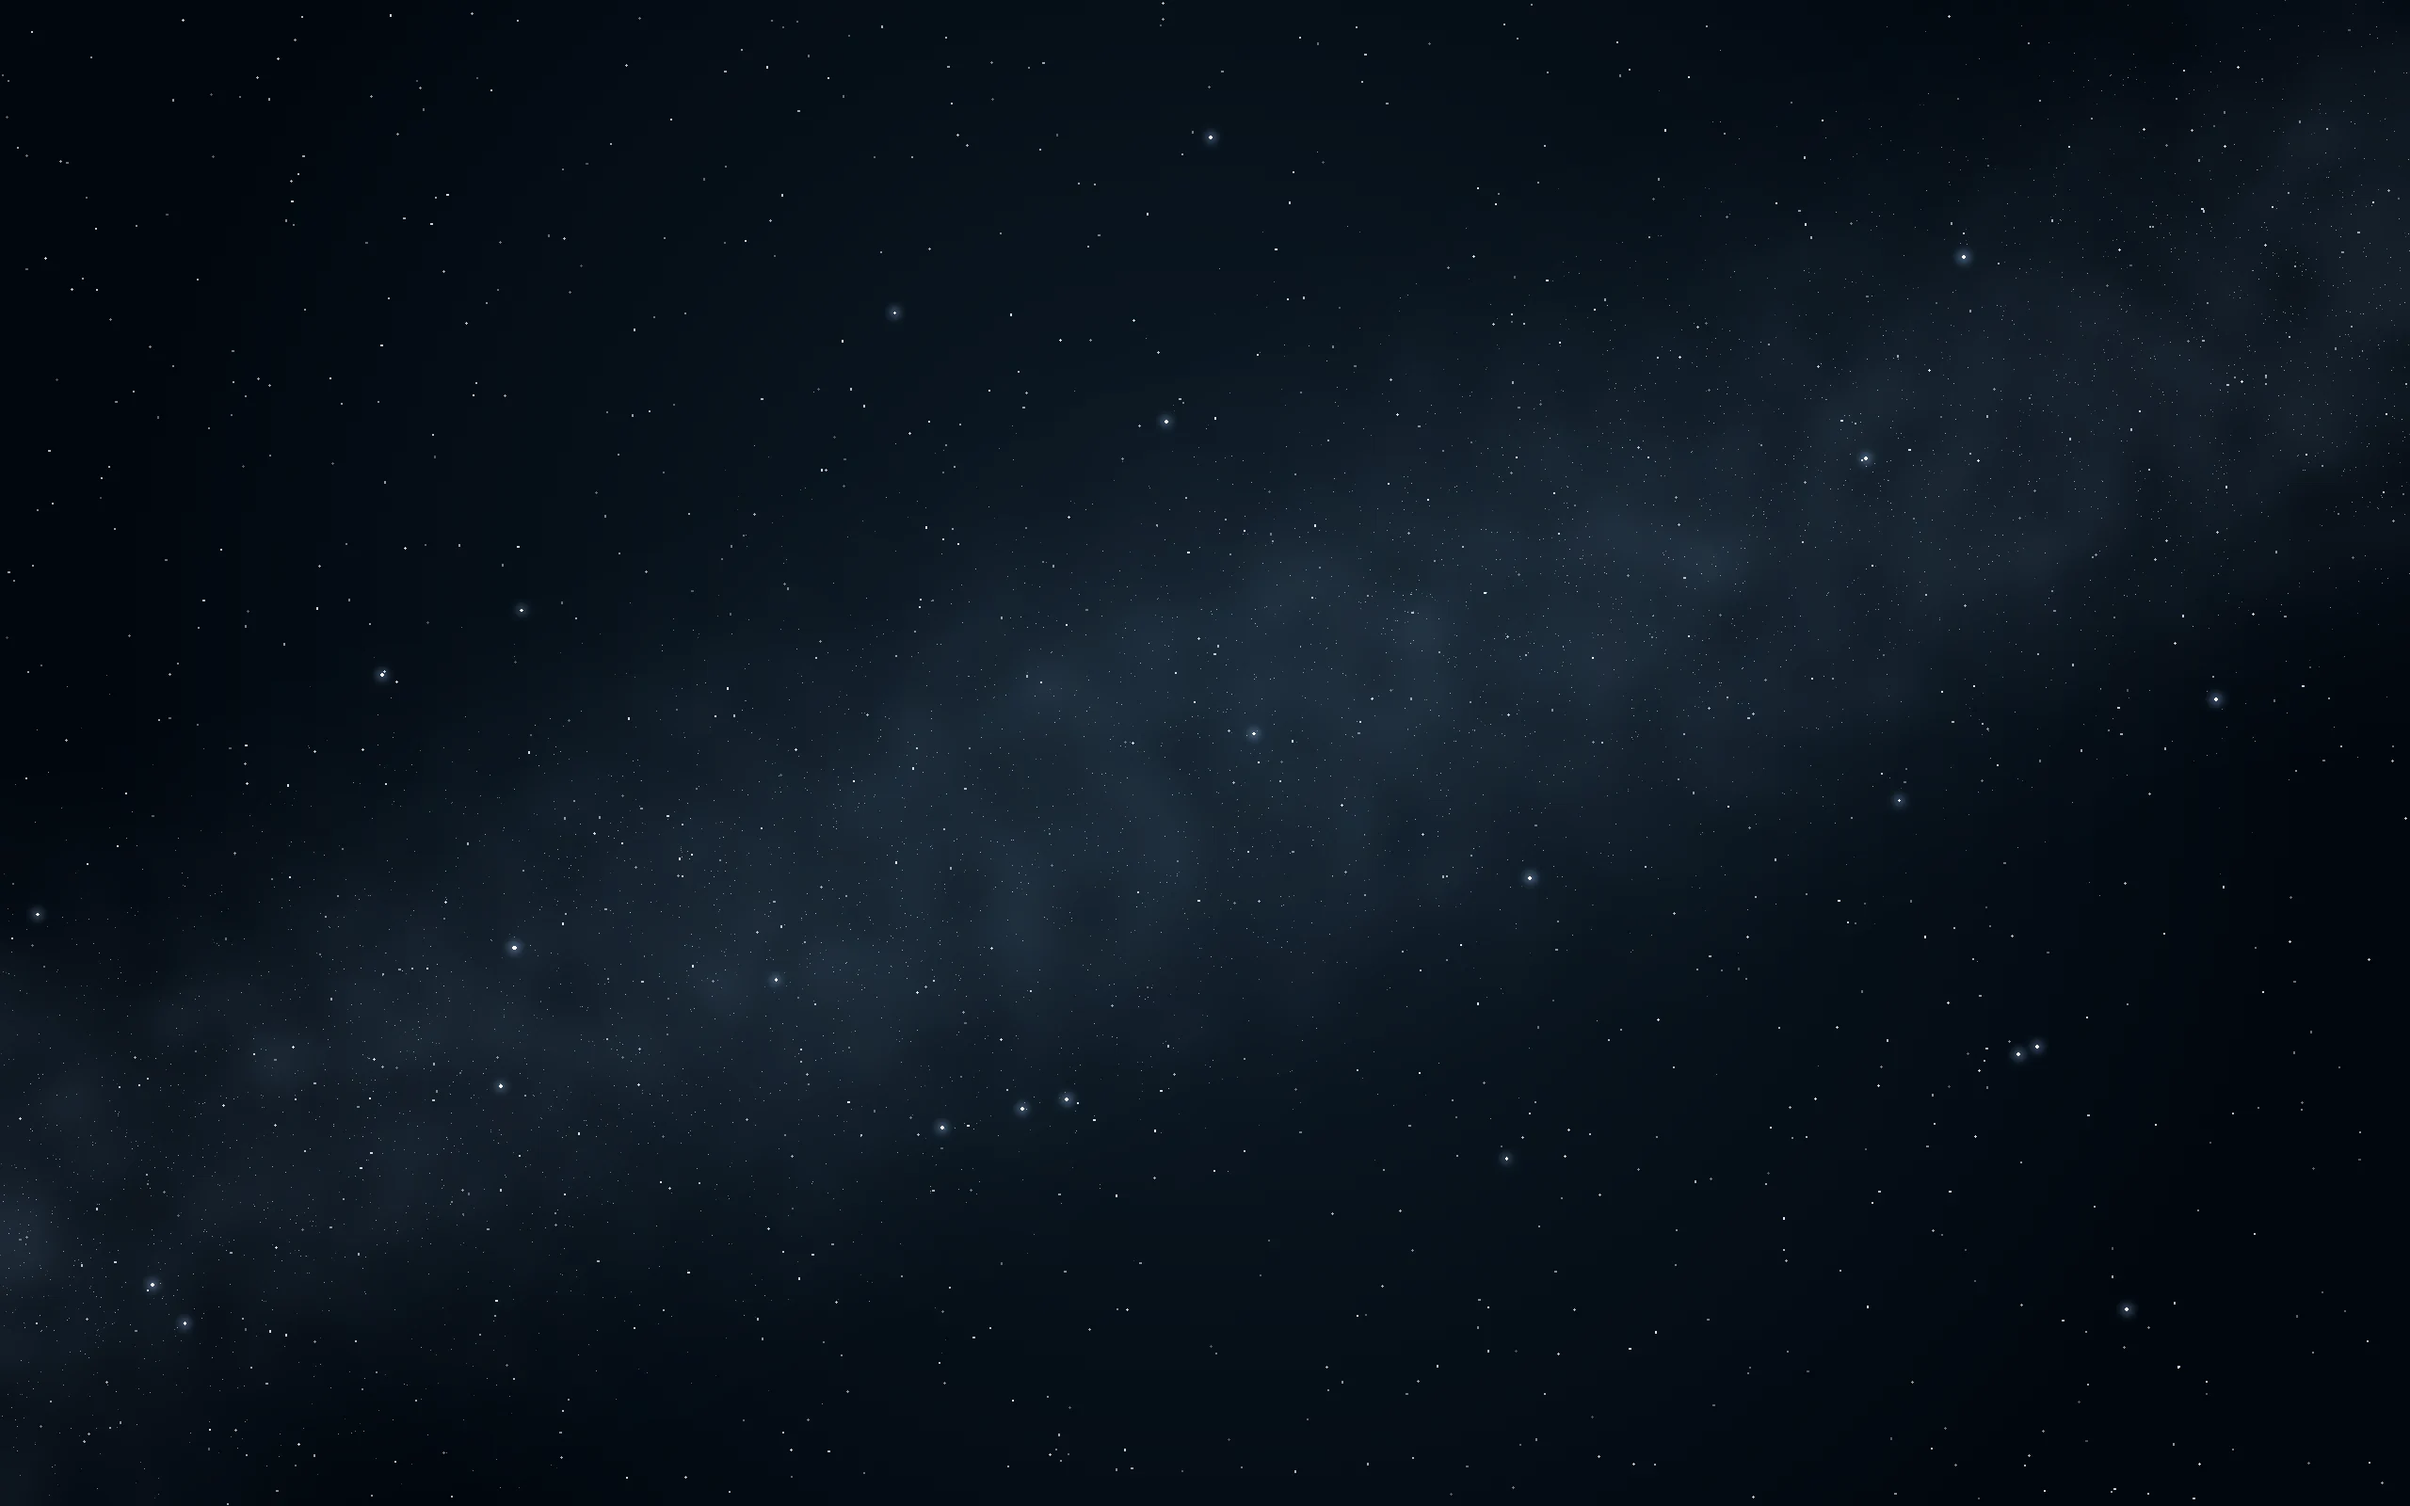
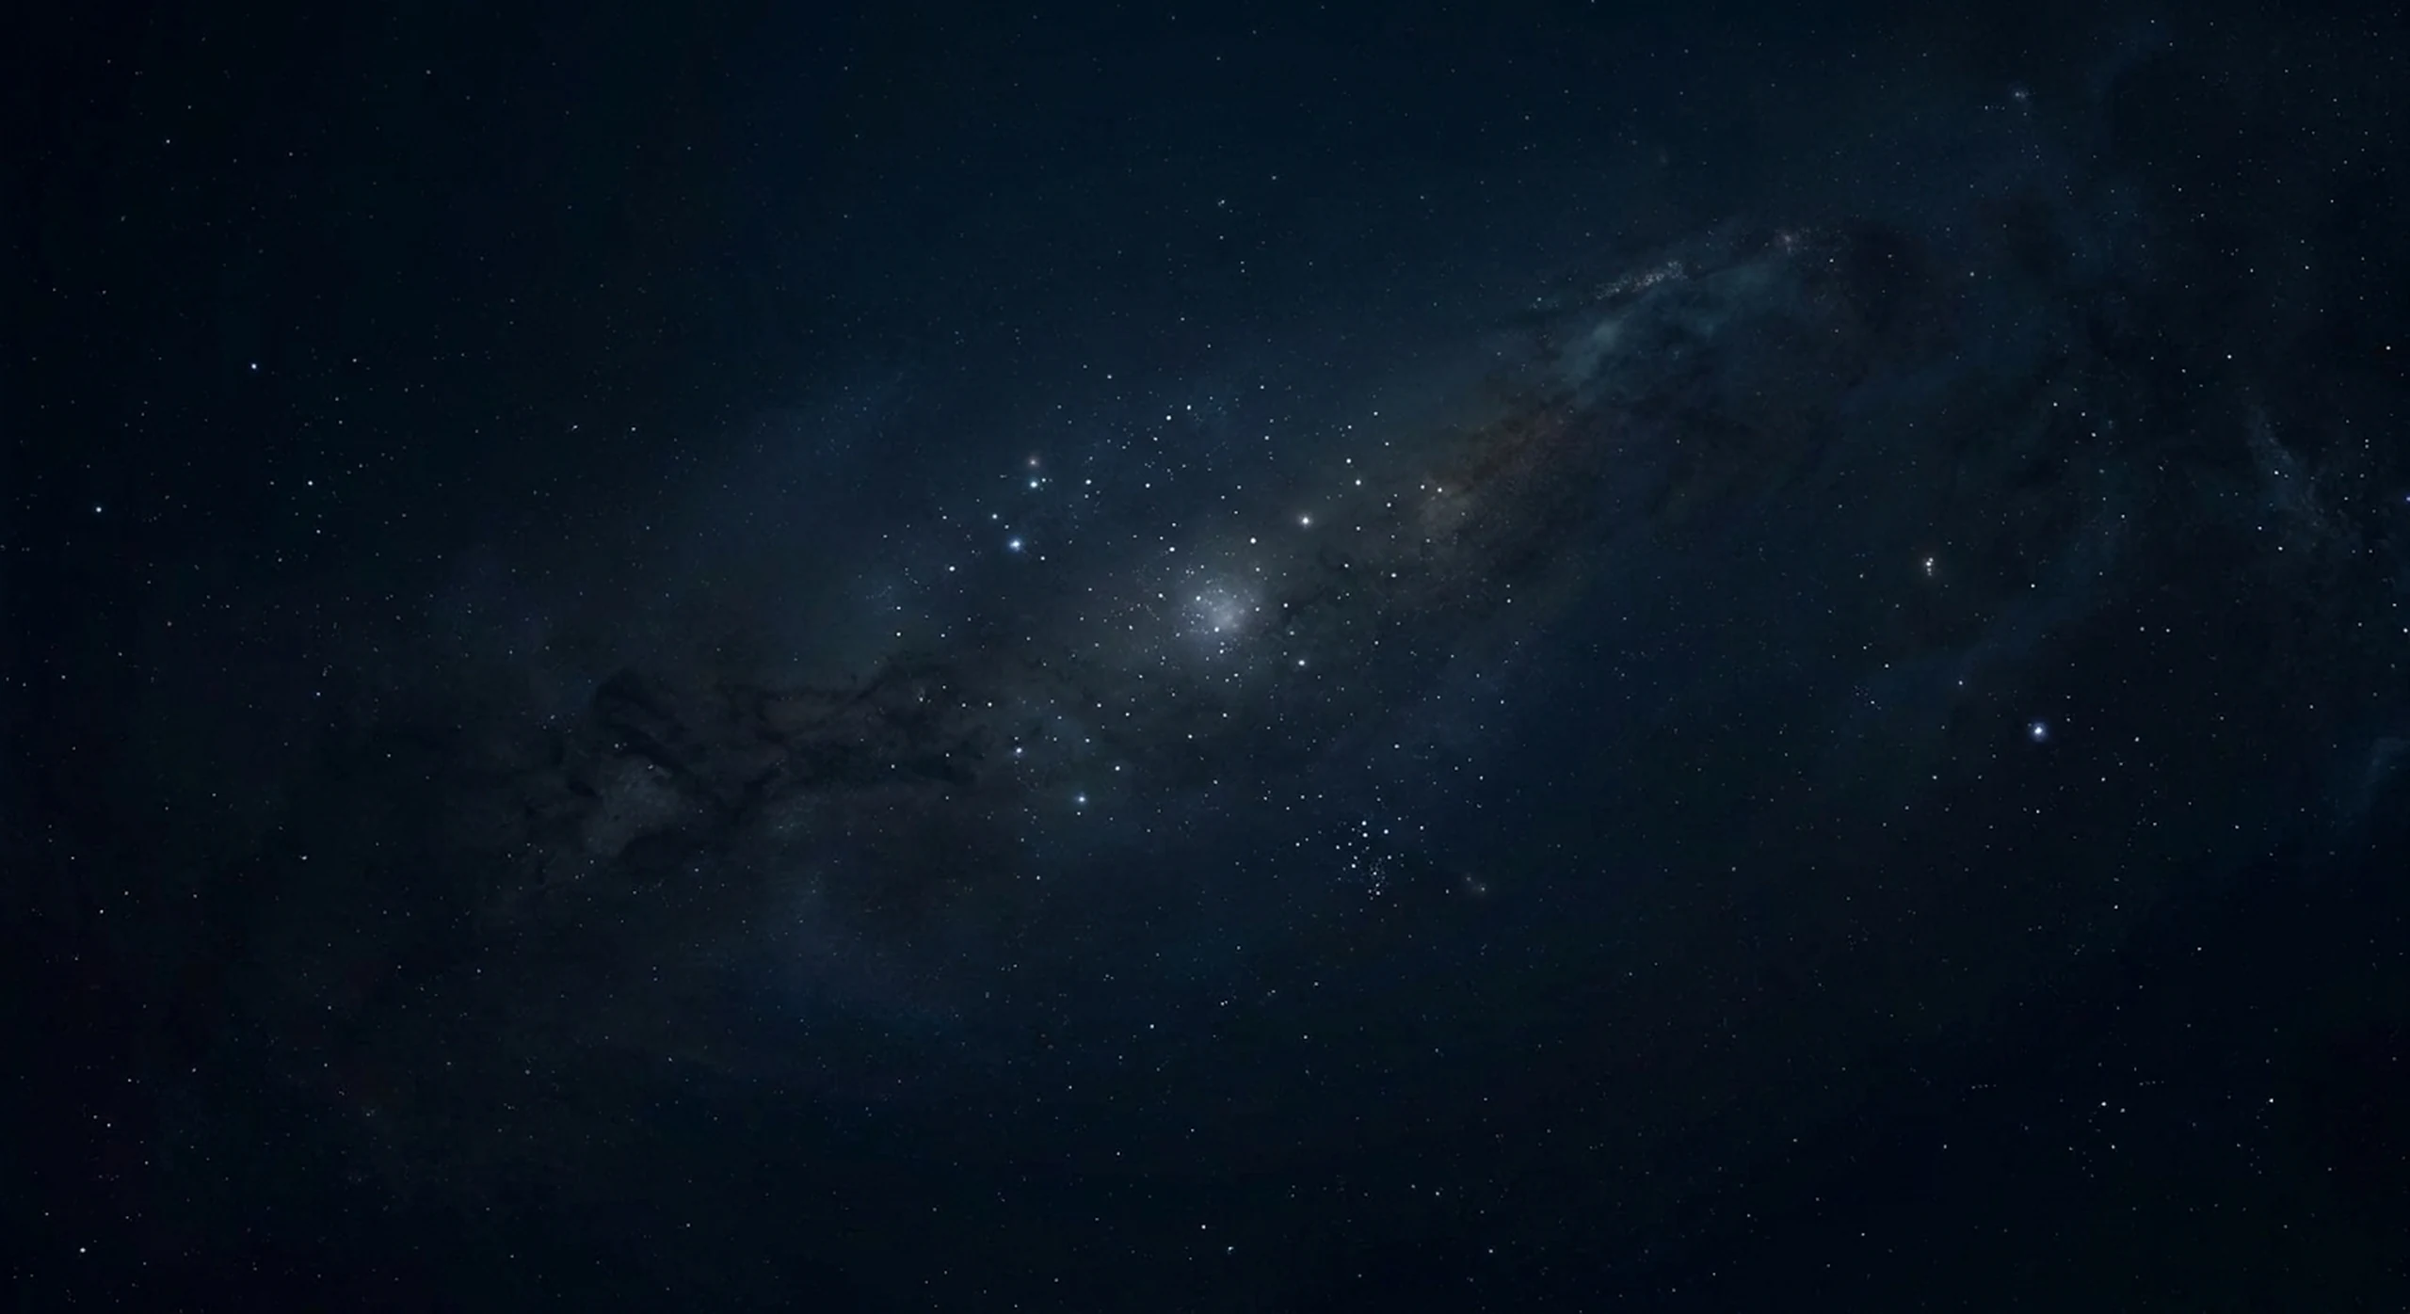
Use the supplied Milky Way image as the app background
docs/brand/space-source.png (watermark painted out): upscaled for the
desktop, a rotated portrait crop around the galaxy core for Android.
Replaces the generated background and its script.

diff --git a/apps/android/app/src/main/java/com/mydomain/android/ui/Theme.kt b/apps/android/app/src/main/java/com/mydomain/android/ui/Theme.kt
@@ -40,8 +40,8 @@ data class Tokens(
     val dangerSoft: Color,
 )
 
-/** Deep space: a star field behind everything (drawable/space_bg, made by
- *  docs/brand/space_bg.py), translucent glass panels, white primary actions. */
+/** Deep space: a star field behind everything (drawable/space_bg, cropped from
+ *  docs/brand/space-source.png), translucent glass panels, white primary actions. */
 private val Space = Tokens(
     bg = Color(0xFF02080F), surface = Color(0x14FFFFFF), surface2 = Color(0x1FFFFFFF),
     border = Color(0x1FFFFFFF), text = Color(0xFFF4F4F6), text2 = Color(0xFFB6B8C6), text3 = Color(0xFF8D90A3),

diff --git a/apps/desktop/ui/src/styles/tokens.css b/apps/desktop/ui/src/styles/tokens.css
@@ -4,7 +4,7 @@
  * can mirror the same values and both feel like one product.
  *
  * Deep space: every screen sits on a quiet star field (public/space.webp,
- * made by docs/brand/space_bg.py). Panels are frosted glass over it, text is
+ * cropped from docs/brand/space-source.png). Panels are frosted glass over it, text is
  * near-white, and primary actions are solid white. Every text/background
  * pair meets WCAG AA against the darkest glass.
  */

diff --git a/docs/DONE.md b/docs/DONE.md
@@ -250,7 +250,7 @@ ping) were removed on 2026-11-02, about 800 lines; QUIC covers each case.
 
 Both apps were rebuilt from scratch for people who aren't technical: plain
 words, no protocol names, technical tools behind a hidden Developer screen
-(tap the version number 7 times). Both use the same deep-space design tokens (a star-field background from `docs/brand/space_bg.py`, frosted-glass panels)
+(tap the version number 7 times). Both use the same deep-space design tokens (a Milky Way background cropped from `docs/brand/space-source.png`, frosted-glass panels)
 and the galaxy logo (`docs/brand/logo-1024.png`, cropped as-is from
 `logo-source.png`).
 - **Desktop** (`apps/desktop/ui`): SolidJS + TypeScript on typed commands
